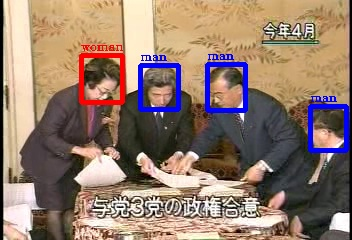
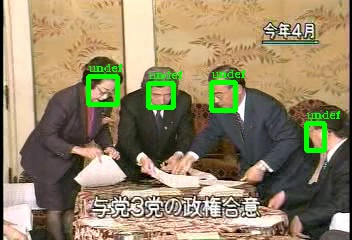
detections has been successfully implemented

Changed region(s): [[0.2188, 0.175, 0.5312, 0.4958], [0.5625, 0.2042, 0.7188, 0.4958], [0.8438, 0.3792, 1.0, 0.6708]]

diff --git a/detect.py b/detect.py
@@ -1,104 +1,47 @@
 import os
-import argparse
 import numpy as np
-import cv2
-import torch
+import pandas as pd
 from tqdm import tqdm
+from time import time
 
 import utils
-import DSFD.face_ssd as mod
-import DSFD.demo as pred
-from DSFD.data import config, widerface, TestBaseTransform
-cfg = config.widerface_640
-
+import cv2
+import face_detection as fd
 
 img_dir = "data/dataset_train_samples/"
 gt_dir = "data/ground_truth_dataset_train_samples/"
 ann_dir = "data/annotated_train_samples/"
 pred_dir = "data/predicted_train_samples/"
 
-
-def arguments():
-    parser = argparse.ArgumentParser(description='DSFD:Dual Shot Face Detector')
-    parser.add_argument('--trained_model', default='DSFD/weights/WIDERFace_DSFD_RES152.pth',
-                        type=str, help='Trained state_dict file path to open')
-    parser.add_argument('--save_folder', default=pred_dir, type=str,
-                        help='Dir to save results')
-    parser.add_argument('--visual_threshold', default=0.1, type=float,
-                        help='Final confidence threshold')
-    parser.add_argument('--cuda', default=torch.cuda.is_available(), type=bool,
-                        help='Use cuda to train model')
-    parser.add_argument('--img_root', default=None, help='Location of test images directory')
-    parser.add_argument('--widerface_root', default=widerface.WIDERFace_ROOT, help='Location of WIDERFACE root directory')
-    args = parser.parse_args()
-
-    if args.cuda:
-        torch.set_default_tensor_type('torch.cuda.FloatTensor')
-    else:
-        torch.set_default_tensor_type('torch.FloatTensor')
-    if not os.path.exists(args.save_folder):
-        os.mkdir(args.save_folder)
-    return args
-
-def load_model(cuda, trained_model):
-    net = mod.build_ssd('test', num_classes=2) # initialize SSD
-    device = 'cuda' if cuda else 'cpu'
-    net.load_state_dict(torch.load(trained_model, map_location=torch.device(device)))
-    if cuda:
-        net.cuda()
-    net.eval()
-    return net
-
-# Please excuse the mess and the shitty comments. They are not mine.
-def detect(net, img, args):
-    thresh = cfg['conf_thresh']
-    transform = TestBaseTransform((104, 117, 123))  # no sé per què mean té aquests valors ni què representen 
-    max_im_shrink = ( (2000.0*2000.0) / (img.shape[0] * img.shape[1])) ** 0.5
-    shrink = max_im_shrink if max_im_shrink < 1 else 1
-    det0 = pred.infer(net , img , transform , thresh , args.cuda , shrink)
-    det1 = pred.infer_flip(net , img , transform , thresh , args.cuda , shrink)
-    # shrink detecting and shrink only detect big face
-    st = 0.5 if max_im_shrink >= 0.75 else 0.5 * max_im_shrink
-    det_s = pred.infer(net , img , transform , thresh , args.cuda , st)
-    index = np.where(np.maximum(det_s[:, 2] - det_s[:, 0] + 1, det_s[:, 3] - det_s[:, 1] + 1) > 30)[0]
-    det_s = det_s[index, :]
-    # enlarge one times
-    factor = 2
-    bt = min(factor, max_im_shrink) if max_im_shrink > 1 else (st + max_im_shrink) / 2
-    det_b = pred.infer(net , img , transform , thresh , args.cuda , bt)
-    # enlarge small iamge x times for small face
-    if max_im_shrink > factor:
-        bt *= factor
-        while bt < max_im_shrink:
-            det_b = np.row_stack((det_b, pred.infer(net , img , transform , thresh , args.cuda , bt)))
-            bt *= factor
-        det_b = np.row_stack((det_b, pred.infer(net , img , transform , thresh , args.cuda , max_im_shrink) ))
-    # enlarge only detect small face
-    if bt > 1:
-        index = np.where(np.minimum(det_b[:, 2] - det_b[:, 0] + 1, det_b[:, 3] - det_b[:, 1] + 1) < 100)[0]
-        det_b = det_b[index, :]
-    else:
-        index = np.where(np.maximum(det_b[:, 2] - det_b[:, 0] + 1, det_b[:, 3] - det_b[:, 1] + 1) > 30)[0]
-        det_b = det_b[index, :]
-    det = np.row_stack((det0, det1, det_s, det_b))
-    det = mod.bbox_vote(det)
-    return det
+def dets2df(detections):
+    return pd.DataFrame([{"gender":"undef", "bbox":[int(round(xmin)), int(round(ymin)), int(round(xmax)), int(round(ymax))]} for xmin, ymin, xmax, ymax,_ in detections])
+        
 
 if __name__ == "__main__":
-    args = arguments()
-    net = load_model(args.cuda, args.trained_model)
-    print("CUDA available:", args.cuda)
-    print("Number of parameters in the network:", sum(p.numel() for p in net.parameters() if p.requires_grad))
-    image_names = [name[:-4] for name in os.listdir(img_dir)]
+    print("Loading model...", end=" ")
+    start = time()
+    detector = fd.build_detector("DSFDDetector", confidence_threshold=.5, nms_iou_threshold=.3)
+    print(f"done ({round(time()-start, 2)}s)")
+
+    print(f"Applying detection to images from directory {img_dir}")
+    image_names = [name[:-4] for name in os.listdir(img_dir) if name[0] != "."]
     for i,img_name in tqdm(enumerate(image_names)):
-        args.img_root = f'{img_dir}{img_name}.jpg'
-        save_path = f'{ann_dir}{img_name}.jpg'
-        img = utils.read_image(args.img_root)
-        if img is None:
-            continue
-        # gt_path = gt_dir+img_name+".csv"
-        # gt = utils.read_annotations(gt_path)
-        det = detect(net, img, args)
-        print(f"Detection results ({i}):", det)
-        print("-"*30)
-    
+        img_path, save_path = f'{img_dir}{img_name}.jpg', f'{ann_dir}{img_name}.jpg'
+        img = cv2.imread(img_path)[:, :, ::-1]
+        detections = detector.detect(img)
+        annotations = dets2df(detections)
+        print(i, annotations)
+        utils.plot_annotation(img_path, save_path, annotations)
+        
+
+"""
+import cv2
+import face_detection
+print(face_detection.available_detectors)
+detector = face_detection.build_detector(
+  "DSFDDetector", confidence_threshold=.5, nms_iou_threshold=.3)
+# BGR to RGB
+im = cv2.imread("path_to_im.jpg")[:, :, ::-1]
+
+detections = detector.detect(im)
+"""

diff --git a/utils.py b/utils.py
@@ -1,4 +1,5 @@
 import pandas as pd
+from pandas.core.frame import DataFrame
 import cv2
 from ast import literal_eval  # CSV bbox as list
 
@@ -21,17 +22,24 @@ def read_image(path):
         return None
 
 
-def plot_annotation(img_path, gt_path, save_path):
-    gender2color = {"man":(255, 0, 0), "woman":(0, 0, 255)}
-    img, gt = read_image(img_path), read_annotations(gt_path)
-    if img is None or gt is None:
+def plot_annotation(img_path, save_path, annotations):
+    if type(annotations) not in [str, pd.DataFrame]:
+        print("Please provide either a path to a csv containing the annotations or a pandas dataframe.")
         return 1
-    for i in range(len(gt)):
-        start_point = (gt["bbox"][i][0], gt["bbox"][i][1])
-        end_point = (gt["bbox"][i][2], gt["bbox"][i][3])
+    if type(annotations) is str:
+        ann = read_annotations(annotations)
+    else:
+        ann = annotations
+    img = read_image(img_path)
+    gender2color = {"man":(255, 0, 0), "woman":(0, 0, 255), "undef":(0, 255, 0)}
+    if img is None or ann is None:
+        return 1
+    for i in range(len(ann)):
+        start_point = (ann["bbox"][i][0], ann["bbox"][i][1])
+        end_point = (ann["bbox"][i][2], ann["bbox"][i][3])
         # draw the rectangle
-        cv2.rectangle(img, start_point, end_point, gender2color[gt["gender"][i]], thickness=3, lineType=cv2.LINE_8) 
-        cv2.putText(img, gt["gender"][i], (start_point[0], start_point[1]-5), color=gender2color[gt["gender"][i]], fontFace = cv2.FONT_HERSHEY_COMPLEX, fontScale = .35)
+        cv2.rectangle(img, start_point, end_point, gender2color[ann["gender"][i]], thickness=3, lineType=cv2.LINE_8) 
+        cv2.putText(img, ann["gender"][i], (start_point[0], start_point[1]-5), color=gender2color[ann["gender"][i]], fontFace = cv2.FONT_HERSHEY_COMPLEX, fontScale = .35)
         # display the output
         cv2.imwrite(save_path, img)
     return 0
